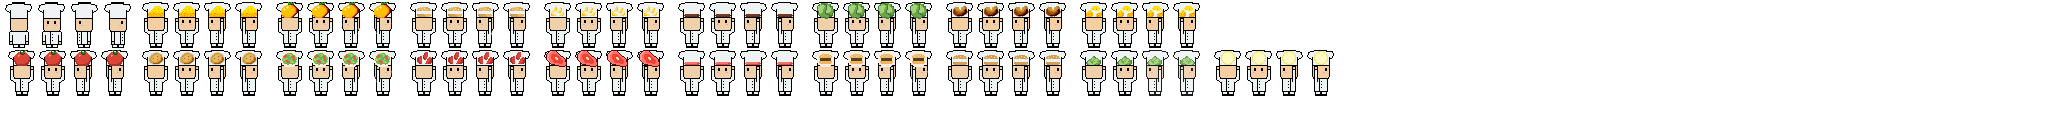
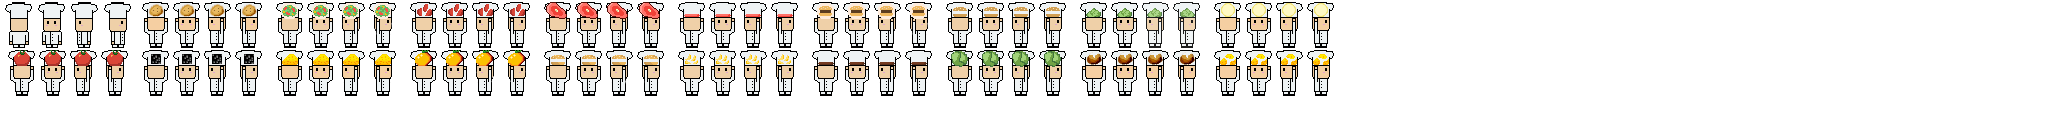
Burning works!?!?!
Almost done! Just need to fix textures because the stupid complete burger doesn't want to work as always aaaaa I'm so done.

Changed region(s): [[0.0625, 0.0, 0.6562, 0.6562], [0.5625, 0.6875, 0.5938, 0.75]]

diff --git a/core/src/Sprites/Chef.java b/core/src/Sprites/Chef.java
@@ -4,6 +4,7 @@ import Ingredients.*;
 import Recipes.*;
 
 import com.badlogic.gdx.Gdx;
+import com.badlogic.gdx.Input;
 import com.badlogic.gdx.graphics.Texture;
 import com.badlogic.gdx.graphics.g2d.Sprite;
 import com.badlogic.gdx.graphics.g2d.SpriteBatch;
@@ -54,6 +55,9 @@ public class Chef extends Sprite {
     private Recipe inHandsRecipe;
 
     public Boolean userControlChef;
+
+    public Boolean failState;
+    private Boolean burnable;
 
     private final Sprite circleSprite;
 
@@ -183,26 +187,65 @@ public class Chef extends Sprite {
                     setChefSkin(inHandsIng);
                 }
             }
-        } else if (!userControlChef && getInHandsIng().prepareTime > 0) {
+        } else if (!userControlChef && getInHandsIng().prepareTime != 0) {
             waitTimer += dt;
-            if (waitTimer > inHandsIng.prepareTime) {
-                inHandsIng.prepareTime = 0;
-                inHandsIng.setPrepared();
-                userControlChef = true;
+            if (waitTimer >= inHandsIng.prepareTime && inHandsIng.prepareTime != -1) {
                 waitTimer = 0;
-                setChefSkin(inHandsIng);
+                inHandsIng.prepareTime = -1;
+            } else if (inHandsIng.prepareTime == -1) {
+                if (Gdx.input.isKeyJustPressed(Input.Keys.Q)) {
+                    resetFailState();
+                }
+                if (waitTimer <= 3 && !failState) {
+                    inHandsIng.setPrepared();
+                    waitTimer = 3;
+                } else if (waitTimer > 3) {
+                    if (failState) {
+                        inHandsIng.setFailed();
+                    } else {
+                        inHandsIng.setPrepared();
+                    }
+                    userControlChef = true;
+                    waitTimer = 0;
+                    inHandsIng.prepareTime = 0;
+                    setChefSkin(inHandsIng);
+                }
             }
-        } else if (!userControlChef && !chefOnChefCollision && getInHandsIng().isPrepared() && inHandsIng.cookTime > 0) {
+        } else if (!userControlChef && getInHandsIng().isPrepared()) {
             waitTimer += dt;
-            if (waitTimer > inHandsIng.cookTime) {
-                inHandsIng.cookTime = 0;
-                inHandsIng.setCooked();
-                userControlChef = true;
+            if (waitTimer >= inHandsIng.cookTime && inHandsIng.cookTime != 0) {
                 waitTimer = 0;
-                setChefSkin(inHandsIng);
+                inHandsIng.cookTime = 0;
+                System.out.println("A");
+            }else if (inHandsIng.cookTime == 0) {
+                System.out.println("B");
+                if (Gdx.input.isKeyJustPressed(Input.Keys.Q)) {
+                    resetFailState();
+                    System.out.println("C");
+                }
+                if (waitTimer <= 3 && !failState) {
+                    System.out.println("D");
+                    inHandsIng.setCooked();
+                    waitTimer = 3;
+                } else if (waitTimer > 3) {
+                    System.out.println("E");
+                    if (failState) {
+                        System.out.println("F");
+                        inHandsIng.setFailed();
+                    } else {
+                        inHandsIng.setCooked();
+                        System.out.println("G");
+                    }
+                    userControlChef = true;
+                    waitTimer = 0;
+                    setChefSkin(inHandsIng);
+                }
             }
         }
     }
+
+
+
 
     /**
      * This method sets the bounds for the notification based on the given direction.
@@ -344,12 +387,14 @@ public class Chef extends Sprite {
 
     public void setChefSkin(Object item) {
         if (item == null) {
-            skinNeeded = skin.getRegion("Chef_normal");;
+            skinNeeded = skin.getRegion("Chef_normal");
+        } else if (inHandsIng != null && inHandsIng.isFailed()){
+            skinNeeded = skin.getRegion("Chef_holding_failed");
         } else if (item instanceof Lettuce) {
             if (inHandsIng.isPrepared()) {
-                skinNeeded = skin.getRegion("Chef_holding_chopped_lettuce");;
+                skinNeeded = skin.getRegion("Chef_holding_chopped_lettuce");
             } else {
-                skinNeeded = skin.getRegion("Chef_holding_lettuce");;
+                skinNeeded = skin.getRegion("Chef_holding_lettuce");
             }
         } else if (item instanceof Steak) {
             if (inHandsIng.isPrepared() && inHandsIng.isCooked()) {
@@ -596,6 +641,14 @@ public class Chef extends Sprite {
                 setChefSkin(item);
             }
         }
+    }
+
+    public void setFailState(){
+        failState = true;
+    }
+
+    public void resetFailState(){
+        failState = false;
     }
 }
 

diff --git a/core/src/Ingredients/Ingredient.java b/core/src/Ingredients/Ingredient.java
@@ -86,7 +86,7 @@ public abstract class Ingredient extends Sprite {
      * Sets the flag indicating that the ingredient preparation has failed.
      *
      */
-    public void setFailed() { amIFailed= true; }
+    public void setFailed() { amIFailed= true;    }
 
     /**
      * Returns the value of the flag indicating whether the ingredient preparation has failed.
@@ -94,6 +94,7 @@ public abstract class Ingredient extends Sprite {
      * @return A boolean indicating whether the ingredient preparation has failed.
      */
     public boolean isFailed() { return amIFailed; }
+
 
     /**
      * Creates and draws a new Sprite object representing the ingredient.
@@ -115,13 +116,15 @@ public abstract class Ingredient extends Sprite {
      * @return int - The correct skin of the ingredient, either 0, 1, or 2.
      * 0 represents the uncooked and unprepared ingredient.
      * 1 represents the prepared but uncooked ingredient.
-     * 2 represents the fully cooked and prepared ingredient.
      * 3 represents the failed ingredient
+     * 2 represents the fully cooked and prepared ingredient.
      *
      * */
     // TODO add skin for failed ingredients using a 10x10 png file
     private int findCorrectSkin(){
-        if (isPrepared() && isCooked()){
+        if (isPrepared() && isCooked()) {
+            return 3;
+        } else if (isFailed()){
             return 2;
         } else if (isPrepared()){
             return 1;

diff --git a/core/src/com/team13/piazzapanic/Screens/PlayScreen.java b/core/src/com/team13/piazzapanic/Screens/PlayScreen.java
@@ -214,7 +214,11 @@ public class PlayScreen implements Screen {
             controlledChef.move(Gdx.input.isKeyPressed(Input.Keys.A),Gdx.input.isKeyPressed(Input.Keys.D),
                                 Gdx.input.isKeyPressed(Input.Keys.S), Gdx.input.isKeyPressed(Input.Keys.W),
                                 chefSpeedMultiplier);
+            if (controlledChef.getInHandsIng() != null && Gdx.input.isKeyJustPressed(Input.Keys.F)){
+                controlledChef.getInHandsIng().setFailed();
+                System.out.println("Failed current");
             }
+        }
         if (controlledChef.b2body.getLinearVelocity().x > 0){
             controlledChef.notificationSetBounds("Right");
         }
@@ -279,6 +283,7 @@ public class PlayScreen implements Screen {
 
                         }
                     } else {
+                        controlledChef.setFailState();
                         switch (tileName) {
                             case "Sprites.Bin":
                                 controlledChef.setInHandsRecipe(null);

diff --git a/core/src/Ingredients/Bun.java b/core/src/Ingredients/Bun.java
@@ -18,8 +18,9 @@ public class Bun extends Ingredient{
         super(prepareTime, cookTime);
         super.setPrepared();
         super.tex = new ArrayList<>();
-        super.tex.add(null);
         super.tex.add(new Texture("Food/Ingredients/Burger_buns.png"));
+        super.tex.add(new Texture("Food/Ingredients/Toasted_burger_buns.png"));
+        super.tex.add(new Texture("Food/Ingredients/Failed_ingredient.png"));
         super.tex.add(new Texture("Food/Ingredients/Toasted_burger_buns.png"));
     }
 }

diff --git a/core/src/Ingredients/PizzaDough.java b/core/src/Ingredients/PizzaDough.java
@@ -18,8 +18,8 @@ public class PizzaDough extends Ingredient{
         super(prepareTime, cookTime);
         super.setPrepared();
         super.tex = new ArrayList<>();
-        super.tex.add(null);
         super.tex.add(new Texture("Food/Ingredients/PizzaDough.png"));
         super.tex.add(new Texture("Food/Ingredients/PizzaDough.png"));
+        super.tex.add(new Texture("Food/Ingredients/Failed_ingredient.png"));
     }
 }

diff --git a/core/src/Ingredients/Potato.java b/core/src/Ingredients/Potato.java
@@ -18,8 +18,8 @@ public class Potato extends Ingredient{
         super(prepareTime, cookTime);
         super.setPrepared();
         super.tex = new ArrayList<>();
-        super.tex.add(null);
         super.tex.add(new Texture("Food/Ingredients/Potato.png"));
         super.tex.add(new Texture("Food/Ingredients/Baked_potato.png"));
+        super.tex.add(new Texture("Food/Ingredients/Failed_ingredient.png"));
     }
 }

diff --git a/core/src/Ingredients/Steak.java b/core/src/Ingredients/Steak.java
@@ -17,6 +17,7 @@ public class Steak extends Ingredient{
         super.tex = new ArrayList<>();
         super.tex.add(new Texture("Food/Ingredients/Meat.png"));
         super.tex.add(new Texture("Food/Ingredients/Patty.png"));
+        super.tex.add(new Texture("Food/Ingredients/Failed_ingredient.png"));
         super.tex.add(new Texture("Food/Ingredients/Cooked_patty.png"));
     }
 }

diff --git a/core/src/Ingredients/UnbakedPizza.java b/core/src/Ingredients/UnbakedPizza.java
@@ -17,6 +17,7 @@ public class UnbakedPizza extends Ingredient{
         super.tex = new ArrayList<>();
         tex.add(new Texture("Food/UnbakedPizza.png"));
         tex.add(new Texture("Food/UnbakedPizza.png"));
+        tex.add(new Texture("Food/Ingredients/Failed_ingredient.png"));
         tex.add(new Texture("Food/Pizza.png"));
 
     }

diff --git a/core/src/Ingredients/Lettuce.java b/core/src/Ingredients/Lettuce.java
@@ -17,5 +17,6 @@ public class Lettuce extends Ingredient{
         super.tex = new ArrayList<>();
         super.tex.add(new Texture("Food/Ingredients/Lettuce.png"));
         super.tex.add(new Texture("Food/Ingredients/Chopped_lettuce.png"));
+        super.tex.add(new Texture("Food/Ingredients/Failed_ingredient.png"));
     }
 }

diff --git a/core/src/Ingredients/Cheese.java b/core/src/Ingredients/Cheese.java
@@ -19,5 +19,6 @@ public class Cheese extends Ingredient{
         super.tex = new ArrayList<>();
         super.tex.add(new Texture("Food/Ingredients/Cheese.png"));
         super.tex.add(new Texture("Food/Ingredients/Chopped_cheese.png"));
+        super.tex.add(new Texture("Food/Ingredients/Failed_ingredient.png"));
     }
 }

diff --git a/core/src/Ingredients/Onion.java b/core/src/Ingredients/Onion.java
@@ -17,5 +17,6 @@ public class Onion extends Ingredient{
         super.tex = new ArrayList<>();
         super.tex.add(new Texture("Food/Ingredients/Onion.png"));
         super.tex.add(new Texture("Food/Ingredients/Chopped_onion.png"));
+        super.tex.add(new Texture("Food/Ingredients/Failed_ingredient.png"));
     }
 }

diff --git a/core/src/Ingredients/PizzaSauce.java b/core/src/Ingredients/PizzaSauce.java
@@ -18,5 +18,6 @@ public class PizzaSauce extends Ingredient{
         super.tex = new ArrayList<>();
         tex.add(new Texture("Food/Ingredients/PizzaSauce.png"));
         tex.add(new Texture("Food/Ingredients/PizzaSauce.png"));
+        tex.add(new Texture("Food/Ingredients/Failed_ingredient.png"));
     }
 }
